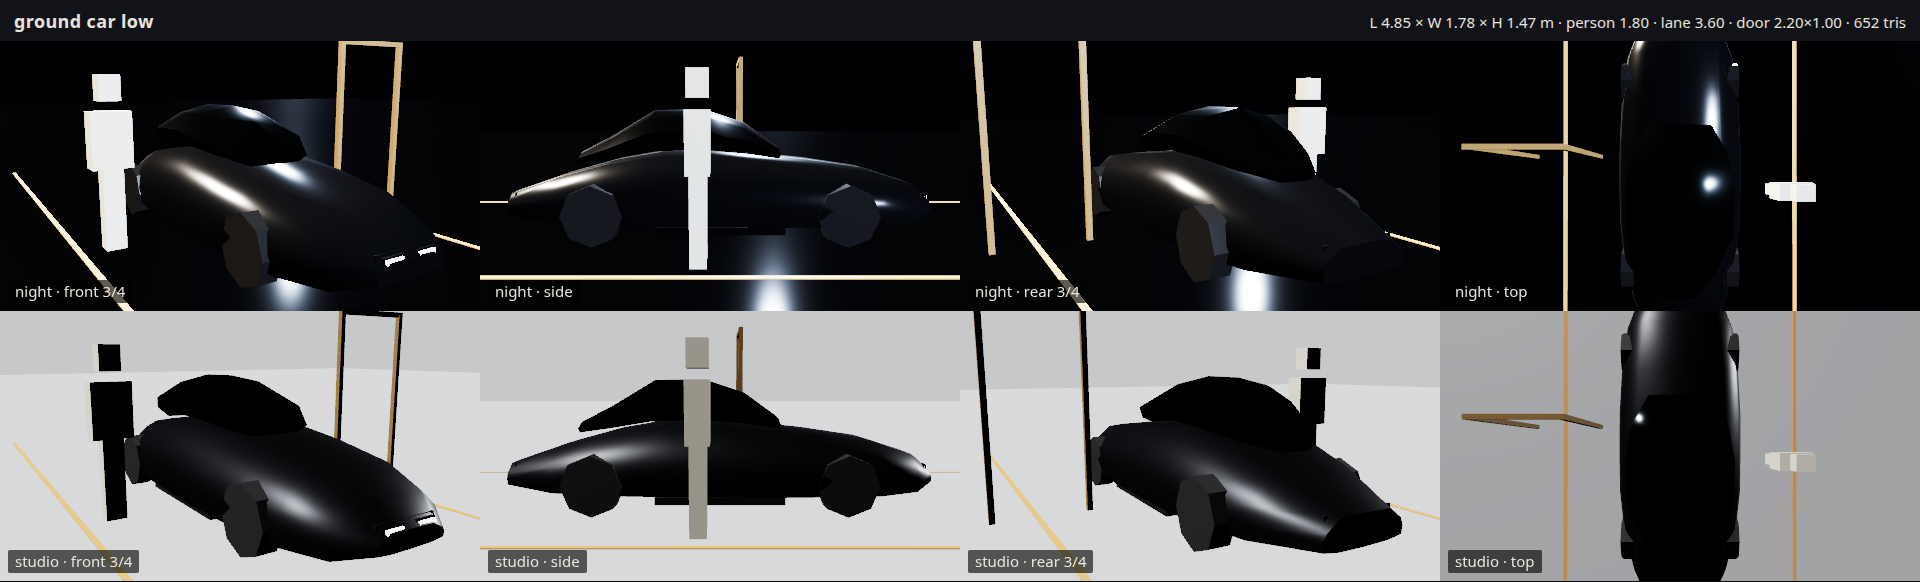
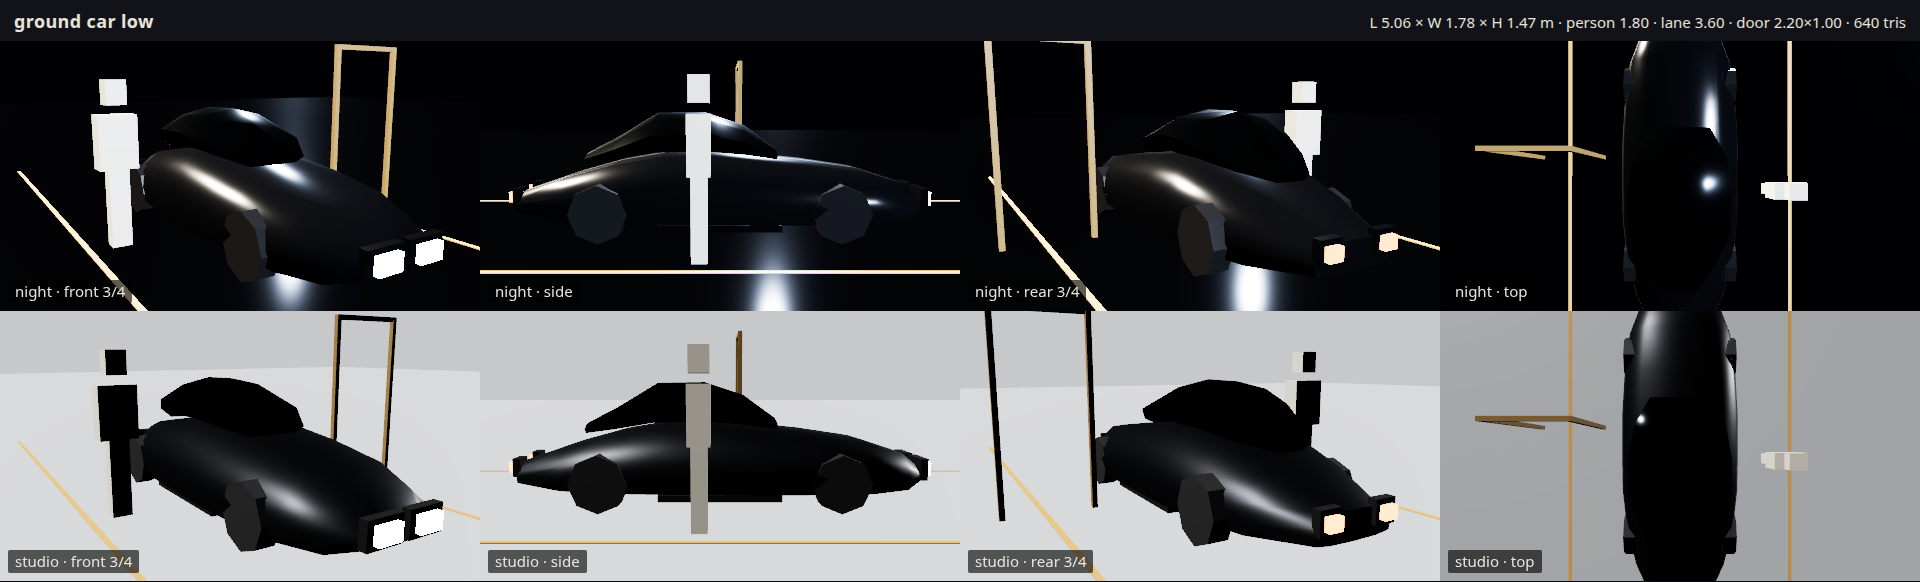
Enlarge the car lamps and the flank shut-line.
The openings and the shoulder stripe now read on the full contact sheet. The car is 5.06 m long, still inside the lane and the 1.40–1.55 m roof.

diff --git a/src/vehicles/vehicleModels.ts b/src/vehicles/vehicleModels.ts
@@ -21,7 +21,7 @@ export type MeshId = 'car' | 'van' | 'box' | 'hauler' | 'tanker';
 export type VehicleLod = 'low' | 'medium' | 'high';
 
 /** Measured high-LOD bounds. tools/scale-audit reads these and public/models/traffic/bounds.json. */
-export const CAR_L = 4.85;
+export const CAR_L = 5.06;
 export const CAR_W = 1.78;
 export const CAR_H = 1.466;
 export const HAULER_L = 16.159;
@@ -54,7 +54,7 @@ const WHITE = new Color(1.75, 1.55, 1.2);
 const RED = new Color(1.85, 0.07, 0.04);
 const AMBER = new Color(1.45, 0.48, 0.06);
 
-const TRIM = new Color(0.42, 0.44, 0.46);
+const TRIM = new Color(0.55, 0.56, 0.58);
 const GLASS = new Color(0.045, 0.05, 0.055);
 const RUBBER = new Color(0.015, 0.015, 0.016);
 const RECESS = new Color(0.035, 0.037, 0.04);

diff --git a/tools/scale-audit/measure.ts b/tools/scale-audit/measure.ts
@@ -306,7 +306,7 @@ function anchors(): void {
   must(gen, 'const HILL_ARCHETYPE_THRESHOLD = 45', 'generator.ts');
   must(gen, 'b.y0 -= 8', 'generator.ts');
   const vehicles = src('src/vehicles/vehicleModels.ts');
-  must(vehicles, 'export const CAR_L = 4.85', 'vehicleModels.ts');
+  must(vehicles, 'export const CAR_L = 5.06', 'vehicleModels.ts');
   must(vehicles, 'export const CAR_W = 1.78', 'vehicleModels.ts');
   must(vehicles, 'export const CAR_H = 1.466', 'vehicleModels.ts');
   must(vehicles, 'export const HAULER_L = 16.159', 'vehicleModels.ts');

diff --git a/tools/model-harness/blender/build_traffic.py b/tools/model-harness/blender/build_traffic.py
@@ -341,17 +341,29 @@ def place_frame(part, location, x_axis, z_axis):
 
 
 def trim_mat():
-    """Steel line. Dark-on-dark seams disappear on the contact sheet."""
+    """Steel line. Dark-on-dark seams disappear once the sheet is scaled down."""
     mat = bpy.data.materials.new('trim')
     mat.use_nodes = True
     bsdf = mat.node_tree.nodes.get('Principled BSDF')
-    bsdf.inputs['Base Color'].default_value = (0.34, 0.35, 0.37, 1)
-    bsdf.inputs['Metallic'].default_value = 0.82
-    bsdf.inputs['Roughness'].default_value = 0.32
+    bsdf.inputs['Base Color'].default_value = (0.55, 0.56, 0.58, 1)
+    bsdf.inputs['Metallic'].default_value = 0.78
+    bsdf.inputs['Roughness'].default_value = 0.34
     return mat
 
 
-def trim_bar(name, a, b, mat, thick=0.036, depth=0.016):
+def emissive(name, rgb, strength):
+    mat = bpy.data.materials.new(name)
+    mat.use_nodes = True
+    bsdf = mat.node_tree.nodes.get('Principled BSDF')
+    bsdf.inputs['Base Color'].default_value = (0.01, 0.01, 0.012, 1)
+    bsdf.inputs['Metallic'].default_value = 0.0
+    bsdf.inputs['Roughness'].default_value = 0.28
+    bsdf.inputs['Emission Color'].default_value = (rgb[0], rgb[1], rgb[2], 1)
+    bsdf.inputs['Emission Strength'].default_value = strength
+    return mat
+
+
+def trim_bar(name, a, b, mat, thick=0.11, depth=0.016):
     a = Vector(a)
     b = Vector(b)
     delta = b - a
@@ -383,18 +395,43 @@ def car_shoulder(sign):
     for t, hw, belly, top in stations:
         y = half - t * CAR['length']
         rise = max(top - belly, 1e-4)
-        pts.append((sign * hw * 0.90, y, belly + rise * 0.58))
+        # Just outside the flank. The lower body is still the widest point, so the lane width holds.
+        pts.append((sign * min(0.86, hw * 0.94 + 0.02), y, belly + rise * 0.55))
     return pts
 
 
 def dress_car(kit, lod):
-    # Two openings on the nose, a band on the tail. They sit just proud of the skin
-    # so a side view sees a lamp, not the edge of a blade.
+    # Openings are large on purpose. A 4 cm blade disappears when the contact sheet is viewed whole.
+    # They sit proud of the nose and the tail, still inside the 5.6 m length and the 1.82 m width.
+    white = emissive('light-white', (1.0, 0.96, 0.88), 16)
+    red = emissive('light-red', (1.0, 0.03, 0.015), 14)
     for sign in (-1, 1):
-        place(kit, kit.seam(f'head-pocket-{sign:+d}', 0.30, 0.11, 0.02), (sign * 0.18, 2.34, 0.44), (0, 1, 0.18))
-        place(kit, kit.light_strip(f'head-{sign:+d}', 0.22, 0.072, 0.055, 'white'), (sign * 0.18, 2.36, 0.44), (0, 1, 0.18))
-    place(kit, kit.seam('tail-pocket', 0.70, 0.09, 0.018), (0, -2.34, 0.46), (0, -1, 0.12))
-    place(kit, kit.light_strip('tail', 0.58, 0.055, 0.05, 'red'), (0, -2.36, 0.46), (0, -1, 0.12))
+        hx = sign * 0.24
+        box(
+            f'head-pocket-{sign:+d}',
+            (hx - 0.20, 2.38, 0.30),
+            (hx + 0.20, 2.47, 0.56),
+            kit.recess,
+        )
+        box(
+            f'head-lamp-{sign:+d}',
+            (hx - 0.13, 2.44, 0.35),
+            (hx + 0.13, 2.53, 0.51),
+            white,
+        )
+        tx = sign * 0.30
+        box(
+            f'tail-pocket-{sign:+d}',
+            (tx - 0.11, -2.47, 0.34),
+            (tx + 0.11, -2.38, 0.56),
+            kit.recess,
+        )
+        box(
+            f'tail-lamp-{sign:+d}',
+            (tx - 0.07, -2.53, 0.39),
+            (tx + 0.07, -2.44, 0.51),
+            red,
+        )
     if lod == 'low':
         return
     # Side skin is at x=±0.89. Parts grow along +Z, so their origin sits just inboard.

diff --git a/docs/BIBLE.md b/docs/BIBLE.md
@@ -66,7 +66,7 @@ When sources disagree, the higher one wins:
 | Street lamp | 7.5 m pole, 1.6 m arm, every ~32 m | `_shared/streetLamps.ts` |
 | Market lane | 7 m between frontages | Little Tokyo grid |
 | Downtown avenue | 34–40 m between megablocks | the film's canyon look |
-| Compact car | 4.85 × 1.78 × 1.47 m | original body, no badges. See §8 |
+| Compact car | 5.06 × 1.78 × 1.47 m | original body, no badges. See §8 |
 | Signal head | 5.5 m pole, stop line 8.4 m | clocked lamps on graph crossings. See §8 |
 | Freeway deck | 7.5–8.6 m below grade | the 10, the 101 and the 110. See §8 |
 
@@ -494,7 +494,7 @@ The films are full of giant animated ads. None of those designs are reproduced. 
 | AI spinner layers | Outside downtown: 55–90 m (low), 175–260 m (main), 320–520 m (high). Over DTLA / financial / civic the low share follows the street graph at **74 m and 112 m** (between the walkway decks, ±11 m so a 5.6 m bridge is missed) and the free remainder is **340–520 m**. The 175–260 m band over those districts belongs to the avenue lanes. Over the Broadway canyon, spinners stay **off** the 18 m graph and fly free at **148–260 m** (above the 110 m roofs). Over Lakewood, over South LA, over the Arts District, over the Southeast Refinery Belt, over Hollywood, over the South Bay, and over the harbor they also stay off the graph: a spawn there is **158–210 m** or **240–420 m**, and any free flier already below **ground + 155 m** is lifted, so it clears the 45–130 m slabs, the 14 m masts, the 70–140 m works stacks, the 84–140 m flare stacks, the Hollywood roofs (heritage to 70 m, towers to 119 m), the South Bay stacks (100–140 m), and the harbor crane houses (80 m). Over Long Beach the roof band is not high enough: roofs are 60–180 m and a compact mast can reach about 204 m, so a spawn is **232–290 m** or **340–480 m**, and any free flier below **ground + 220 m** is lifted. That band is not the LAX gantry band. Over East LA spinners are not skipped. Roofs stay under 60 m and a mast stops under 66 m, so the 74 m and 112 m parks stay above them. The ambient 55–90 m band can still cross an East LA roof the same way it crosses a Westside roof. Over LAX the gantries are **420 m**, so that band is not used: a spawn is **480–640 m** or **720–920 m**, and any free flier below **ground + 460 m** is lifted. Westside is not skipped. Roofs stay under 66 m, so a graph park at **74 m** or **112 m** (±11 m) stays above them. Basin is not skipped either. A 34 m mass plus a mast stays near 45 m, under the 70 m line, so the same 74 / 112 m park stays above those roofs. The ambient 55–90 m band can still cross a Westside roof the same way it crosses any fabric under 90 m outside those three skips. `lane` ≥ 5 still parks on other street lattices. | `SpinnerTraffic.ts`, `streetGraph.ts` |
 | Transport hauler | **14 m long, 5.2 m wide, 3.6 m tall** | Invented heavy cargo spinner for the sky lanes (`transportModel.ts`): boxy body, amber running lights. Sized like a large rigid truck. |
 | Sky lanes (Stage 3–5, pad runs through Stage 8, Wallace freight in Stage 7, coast patrol in Stage 10) | High avenues 430–860 m. **Downtown avenues at 188, 222 and 250 m** on the street centre lines (up to three runs each way, split where a hero collider crosses). Holding patterns 140 m over MT-1, around the MT-2/MT-4 pair, over LAPD (`hold-lapd`, police-heavy, unchanged) and at the Wallace apex (~3.2 km) and mid-height, corridors 360–3,240 m. **LAPD pad runs** (`lapd-pad-a`…`d`, plus a slow `lapd-pad-circuit`) leave the ~190 m avenue band, cross one roof pad at **222.5 m**, and leave again. **K's pad runs** (`k-pad-ew`, `k-pad-ns`) cross the south side of the megablock pad at **191 m** and climb away. One open polyline is both the arrival and the departure. **Coast patrol** (`coast-patrol`) is one open polyline along the Sepulveda crest at **crest + 18 m**, police only, platoon of 1, weight 0.2. **Arts freight** (`arts-freight`, Stage 9) is one open polyline on the north-south street at local x = 770, from about z 280 to z 2,100, at **ground + 176 m**, transports only, platoon of 2–4, separation 6 m, `altBias` 0, fade 80 m, weight 1.6. It is dropped if a landmark occupies the line. **Southeast freight** (`southeast-freight`, Stage 15) is one open polyline on grid line j = 62 (local x = 10,540), from about z 3,600 to z 11,000, at **ground + 188 m**, transports only, platoon of 2–4, separation 8 m, `altBias` 0, fade 90 m, weight 1.4. It is dropped if a landmark occupies the line. **LAX shuttle** (`lax-shuttle`, Stage 17) is one open polyline on street line i = −30 (local z = 12,600), at **ground + 96 m**, transports only, platoon of 2–3, separation 14 m, `altBias` 0, fade 90 m, weight 1.2. It is above the 70 m terminal and under the 460 m ambient floor, and it is dropped if a gantry collider occupies a sample. **South Bay freight** (`south-bay-freight`, Stage 18) is one open polyline on grid line j = −30 (local x = −5,100), from about z 14,660 to z 27,200, at **ground + 196 m**, transports only, platoon of 2–4, separation 9 m, `altBias` 0, fade 90 m, weight 1.3. It is dropped if a landmark occupies the line. **Harbor freight** (`harbor-freight`, Stage 19) is one open polyline on grid line j = 6 (local x = 1,080), from about z 29,000 to z 35,000, at **ground + 128 m**, transports only, platoon of 2–4, separation 10 m, `altBias` 0, fade 90 m, weight 1.25. It sits above the 80 m crane house and under the 155 m ambient floor, and it is dropped if a landmark occupies the line. **Long Beach freight** (`long-beach-freight`, Stage 20) is one open polyline on grid line i = −163 (local z = 30,970), from about x 9,840 to x 12,960, at **ground + 200 m**, transports only, platoon of 2–4, separation 11 m, `altBias` 0, fade 90 m, weight 1.15. It sits above the 180 m roofs and under the 220 m ambient floor, on the street centreline, and it is dropped if a landmark occupies the line. | `skyLanes.ts`, `LaneTraffic.ts`, `civic-center/lanes.ts`, `k-megablock/lanes.ts`, `wallace-vernon/lanes.ts`, `coastal-strip/lanes.ts`, `southeast-industrial/lanes.ts`. Right-hand traffic. High avenues separate directions by 16–30 m; downtown avenues by **11 m** (the street is 34 m). Opposite directions also sit **7 m** apart in height (`altBias`, default 7). Pad lanes and the coast patrol set `altBias` to **0**. LAPD fades the ends over **70 m**; K's pad fades over **60 m**; the coast patrol fades over **90 m**. Platoons of 1–4, bank, blink. Counts 60 / 140 / 240 / 380 by tier, dealt by length × weight so the lower avenues are not starved. **Wallace freight** (Stage 7) is three more open polylines (`wallace-freight-in`, `wallace-dock-ns`, `wallace-dock-ew`): transports only, platoons of 2–5, `altBias` 0, low and slow. A lane that omits `platoon` keeps the original roll. Ground haulers on the causeway, and the one coast hauler, are not this mesh. |
-| Ground vehicles | compact **4.85 × 1.78 × 1.47 m**, van **5.55 m**, box truck **7.9 m**, tanker **10.8 m** (cylinder tank, cab, rail), hauler **16.2 × 2.32 × 3.89 m**. Canyon rickshaws stay the compact mesh at **0.62 × 1.05 × 0.59** | One graph (`streetGraph.ts`). Avenue driving line ±7.2 m; historic-core ±3.15 m; Lakewood ±6.2 m on the 26 m streets; South LA ±5.6 m on the 24 m streets; the refinery belt ±6.6 m on the 26 m streets; Hollywood ±6.4 m on the 22 m streets; the LAX apron ±11.5 m on the 60 m streets; the South Bay ±6.2 m on the 24 m streets; the harbor ±7.5 m on the 30 m streets; Long Beach ±6.8 m on the 30 m streets; East LA ±5.1 m on the 16 m streets. Street speeds 8–16 m/s (rickshaws 6–11, trucks slower). Freeway lanes run about 16–34 m/s. Civic Center is cars and vans only. Lakewood is cars and about one van in six, no trucks. South LA is cars, about one van in five, and a box truck only on a long north-south spine, no haulers. The Arts District is box trucks (about 0.62), haulers (about 0.28) and vans (about 0.10), no cars. Westside is cars and about one van in five (chance 0.18), no trucks. Basin is cars and about one van in eight (chance 0.12), no trucks. The Southeast Refinery Belt is box trucks (about 0.58) and tankers, no cars. Hollywood is cars (about 0.72), vans (about 0.22) and an occasional box truck (about 0.06), no tankers. LAX is vans (about 0.46), box trucks (about 0.32), haulers (about 0.14) and a few cars, no tankers. The South Bay is tankers (about 0.64), box trucks (about 0.24) and vans (about 0.12), no cars. The harbor is haulers (about 0.74) and box trucks, no cars and no tankers. Long Beach is cars (about 0.70), vans (about 0.22) and box trucks (about 0.08), no haulers and no tankers. East LA is cars and about one van in five, plus a box truck on about one market-spine vehicle in ten, no tankers and no haulers. Counts at density 1 are 0 / 22 / 40 / 64 street and 0 / 24 / 40 / 56 freeway by tier; a district's `traffic` weight scales the street budget. At Lakewood's 0.15 that is about 3 / 6 / 10 street cars on medium / high / ultra. At South LA's 0.18 that is about 4 / 7 / 12. At the Arts District's 0.34 that is about 7 / 14 / 22. At Westside's 0.22 that is about 5 / 9 / 14. At Basin's 0.2 that is about 4 / 8 / 13. At the belt's 0.32 that is about 7 / 13 / 20. At Hollywood's 0.42 that is about 9 / 17 / 27. At LAX's 0.28 that is about 6 / 11 / 18. At the South Bay's 0.30 that is about 7 / 12 / 19. At the harbor's 0.36 that is about 8 / 14 / 23. At Long Beach's 0.34 that is about 7 / 14 / 22. At East LA's 0.26 that is about 6 / 10 / 17. The weight stays 0.26 because the row says light traffic and that count already is the light band. Low tier is light streaks only. One instanced draw per class, hidden when that class has no live agents. The Grey Coast, K and Wallace are not on this graph. |
+| Ground vehicles | compact **5.06 × 1.78 × 1.47 m**, van **5.55 m**, box truck **7.9 m**, tanker **10.8 m** (cylinder tank, cab, rail), hauler **16.2 × 2.32 × 3.89 m**. Canyon rickshaws stay the compact mesh at **0.62 × 1.05 × 0.59** | One graph (`streetGraph.ts`). Avenue driving line ±7.2 m; historic-core ±3.15 m; Lakewood ±6.2 m on the 26 m streets; South LA ±5.6 m on the 24 m streets; the refinery belt ±6.6 m on the 26 m streets; Hollywood ±6.4 m on the 22 m streets; the LAX apron ±11.5 m on the 60 m streets; the South Bay ±6.2 m on the 24 m streets; the harbor ±7.5 m on the 30 m streets; Long Beach ±6.8 m on the 30 m streets; East LA ±5.1 m on the 16 m streets. Street speeds 8–16 m/s (rickshaws 6–11, trucks slower). Freeway lanes run about 16–34 m/s. Civic Center is cars and vans only. Lakewood is cars and about one van in six, no trucks. South LA is cars, about one van in five, and a box truck only on a long north-south spine, no haulers. The Arts District is box trucks (about 0.62), haulers (about 0.28) and vans (about 0.10), no cars. Westside is cars and about one van in five (chance 0.18), no trucks. Basin is cars and about one van in eight (chance 0.12), no trucks. The Southeast Refinery Belt is box trucks (about 0.58) and tankers, no cars. Hollywood is cars (about 0.72), vans (about 0.22) and an occasional box truck (about 0.06), no tankers. LAX is vans (about 0.46), box trucks (about 0.32), haulers (about 0.14) and a few cars, no tankers. The South Bay is tankers (about 0.64), box trucks (about 0.24) and vans (about 0.12), no cars. The harbor is haulers (about 0.74) and box trucks, no cars and no tankers. Long Beach is cars (about 0.70), vans (about 0.22) and box trucks (about 0.08), no haulers and no tankers. East LA is cars and about one van in five, plus a box truck on about one market-spine vehicle in ten, no tankers and no haulers. Counts at density 1 are 0 / 22 / 40 / 64 street and 0 / 24 / 40 / 56 freeway by tier; a district's `traffic` weight scales the street budget. At Lakewood's 0.15 that is about 3 / 6 / 10 street cars on medium / high / ultra. At South LA's 0.18 that is about 4 / 7 / 12. At the Arts District's 0.34 that is about 7 / 14 / 22. At Westside's 0.22 that is about 5 / 9 / 14. At Basin's 0.2 that is about 4 / 8 / 13. At the belt's 0.32 that is about 7 / 13 / 20. At Hollywood's 0.42 that is about 9 / 17 / 27. At LAX's 0.28 that is about 6 / 11 / 18. At the South Bay's 0.30 that is about 7 / 12 / 19. At the harbor's 0.36 that is about 8 / 14 / 23. At Long Beach's 0.34 that is about 7 / 14 / 22. At East LA's 0.26 that is about 6 / 10 / 17. The weight stays 0.26 because the row says light traffic and that count already is the light band. Low tier is light streaks only. One instanced draw per class, hidden when that class has no live agents. The Grey Coast, K and Wallace are not on this graph. |
 
 ### Ground traffic (stage X2)
 
